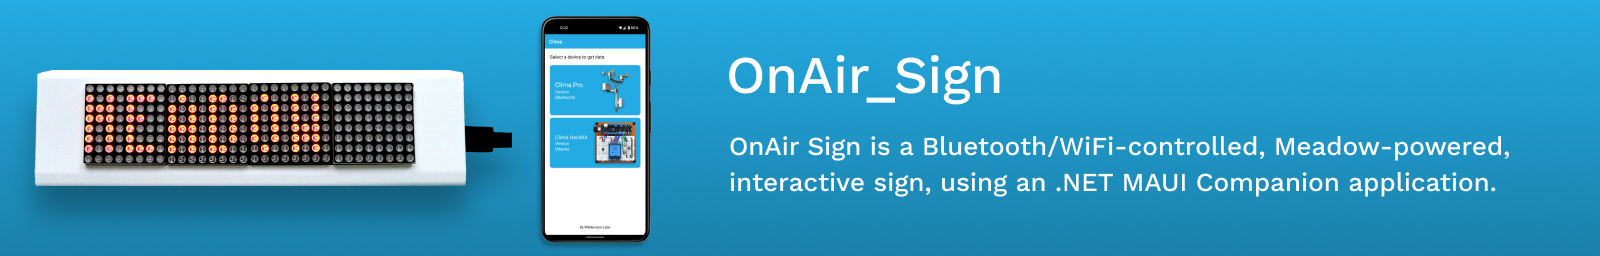
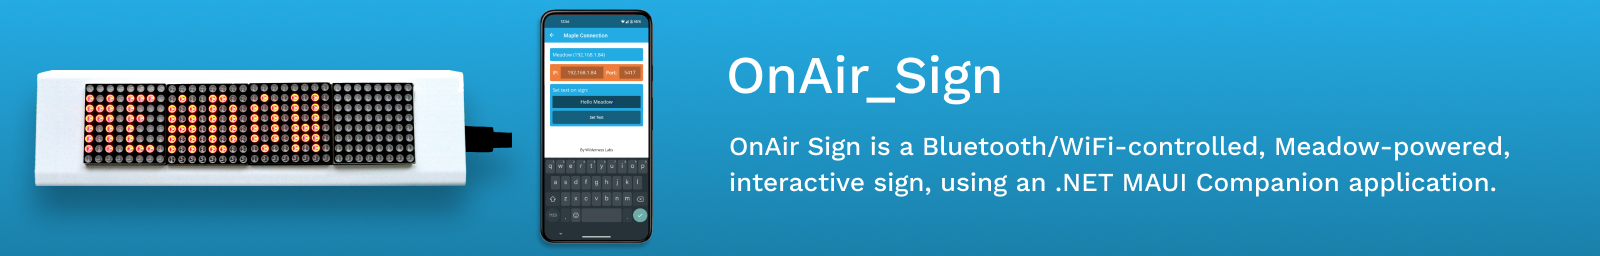
Update Readme

Changed region(s): [[0.3125, 0.0312, 0.4062, 0.9688]]

diff --git a/Source/OnAir_Sign/MobileOnAir_Sign/View/BluetoothPage.xaml b/Source/OnAir_Sign/MobileOnAir_Sign/View/BluetoothPage.xaml
@@ -5,7 +5,7 @@
     xmlns:converter="clr-namespace:MobileOnAir_Sign.Converter"
     x:Class="MobileOnAir_Sign.View.BluetoothPage"
     BackgroundColor="White"
-    Title="Servo Controller">
+    Title="Bluetooth Connection">
 
     <ContentPage.Resources>
         <ResourceDictionary>
@@ -32,7 +32,7 @@
                 <Frame Grid.Row="0" BackgroundColor="#23ABE3" BorderColor="Transparent" HasShadow="False" CornerRadius="5" Padding="10,0,0,0">
                     <Grid ColumnDefinitions="*, 1, Auto" ColumnSpacing="0">
                         <Grid Grid.Column="0">
-                            <Picker TextColor="White" FontSize="Medium" BackgroundColor="Transparent"
+                            <Picker TextColor="White" FontSize="Medium" BackgroundColor="Transparent" Margin="0,3,0,0"
                                 ItemsSource="{Binding DeviceList}" ItemDisplayBinding="{Binding Name}" SelectedItem="{Binding DeviceSelected}"/>
                         </Grid>
 

diff --git a/Source/OnAir_Sign/MobileOnAir_Sign/View/MaplePage.xaml b/Source/OnAir_Sign/MobileOnAir_Sign/View/MaplePage.xaml
@@ -37,7 +37,7 @@
                         </Grid.ColumnDefinitions>
 
                         <Grid Grid.Column="0">
-                            <Picker TextColor="White" FontSize="Medium" BackgroundColor="Transparent"
+                            <Picker TextColor="White" FontSize="Medium" BackgroundColor="Transparent"  Margin="0,3,0,0"
                                 ItemsSource="{Binding HostList}" ItemDisplayBinding="{Binding Name}" SelectedItem="{Binding SelectedServer}"/>
                             <Label IsVisible="{Binding IsServerListEmpty}" Text="Pick a server" 
                                 FontSize="Medium" TextColor="White" VerticalOptions="Center" />

diff --git a/README.md b/README.md
@@ -6,23 +6,24 @@ OnAir Sign is a Bluetooth/WiFi-controlled, Meadow-powered, interactive sign, usi
 
 It runs Maple.Server, which allows you to control the text on a MAX7219 LED matrix display via a Web API. It also includes a version that you can build with a [Hack Kit](https://store.wildernesslabs.co/collections/frontpage/products/meadow-f7-micro-development-board-w-hack-kit-pro) using the LCD Character Display.
 
-<img src="OnAir.jpg" 
-    style="width: 60%; display: block; margin-left: auto; margin-right: auto;" />
+![OnAir_Sign companion app](Design/OnAir_Sign.jpg)
 
-## OnAir Sign Circuit
+# OnAir Sign Circuit
 
 For this project you need to connect an array of 4 Max7219 LED dot matrix to Meadow's ISP pins as shown in the Fritzing Diagram below:
 
 <img src="OnAir_Fritzing_Diagram.png" 
     style="width: 60%; display: block; margin-left: auto; margin-right: auto;" />
 
-## Projects
+# Companion Phone App
+
+This project also comes with a .NET MAUI OnAir_Sign companion app (on Android and iOS) that shows you how to communicate with your Meadow device using [Bluetooth](http://developer.wildernesslabs.co/Meadow/Meadow.OS/Bluetooth/) and [Maple](http://developer.wildernesslabs.co/Meadow/Meadow.Foundation/Libraries_and_Frameworks/Maple.Server/) for both versions.
+
+![OnAir_Sign companion app](Design/MobileOnAir_Sign.jpg)
+
+# Solution Structure
 
 * **CommonContracts** - Shared projects to share common constants like Bluetooth characteristics IDs, models, etc.
 * **MeadowOnAir_Sign** - A meadow application that runs a Maple server, broadcasting the server information in the network and taking GET requests to show text on the MAX7212. It can also run as a Bluetooth server, so its paired with its companion app to set texts on the display.
 * **MeadowOnAir_Sign.HackKit** - Same meadow application with the difference of using a Character Display including in the Hack Kit.
 * **MobileOnAir_Sign** - .NET MAUI application that listens to Maple's UDP broadcasts to obtain the server and sends GET requests to Meadow to display text on the LED display.
-
-## Authors
-
-Bryan Costanich, Jorge Ramirez, Adrian Stevens
